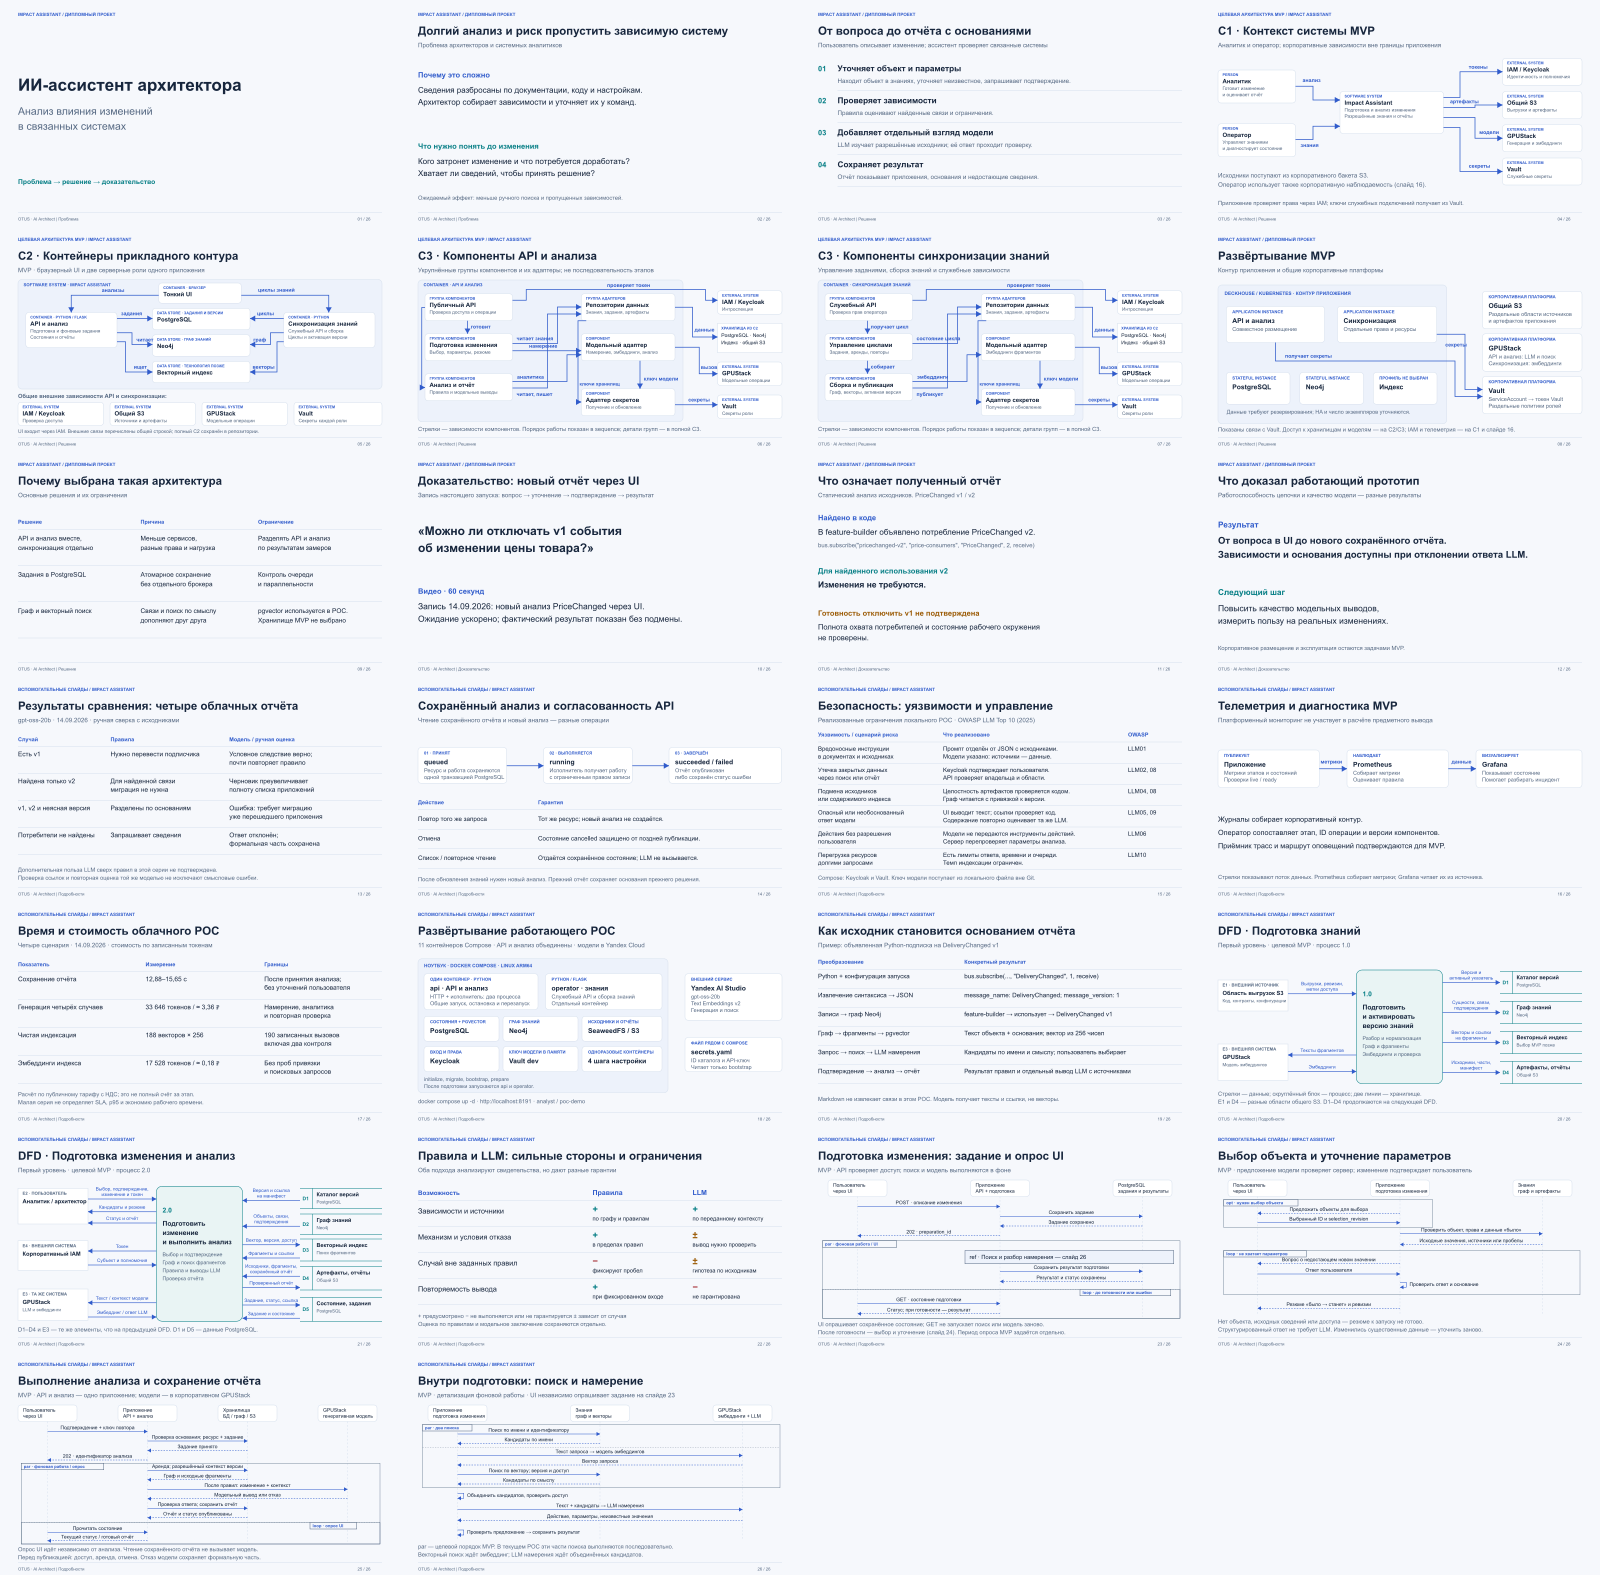
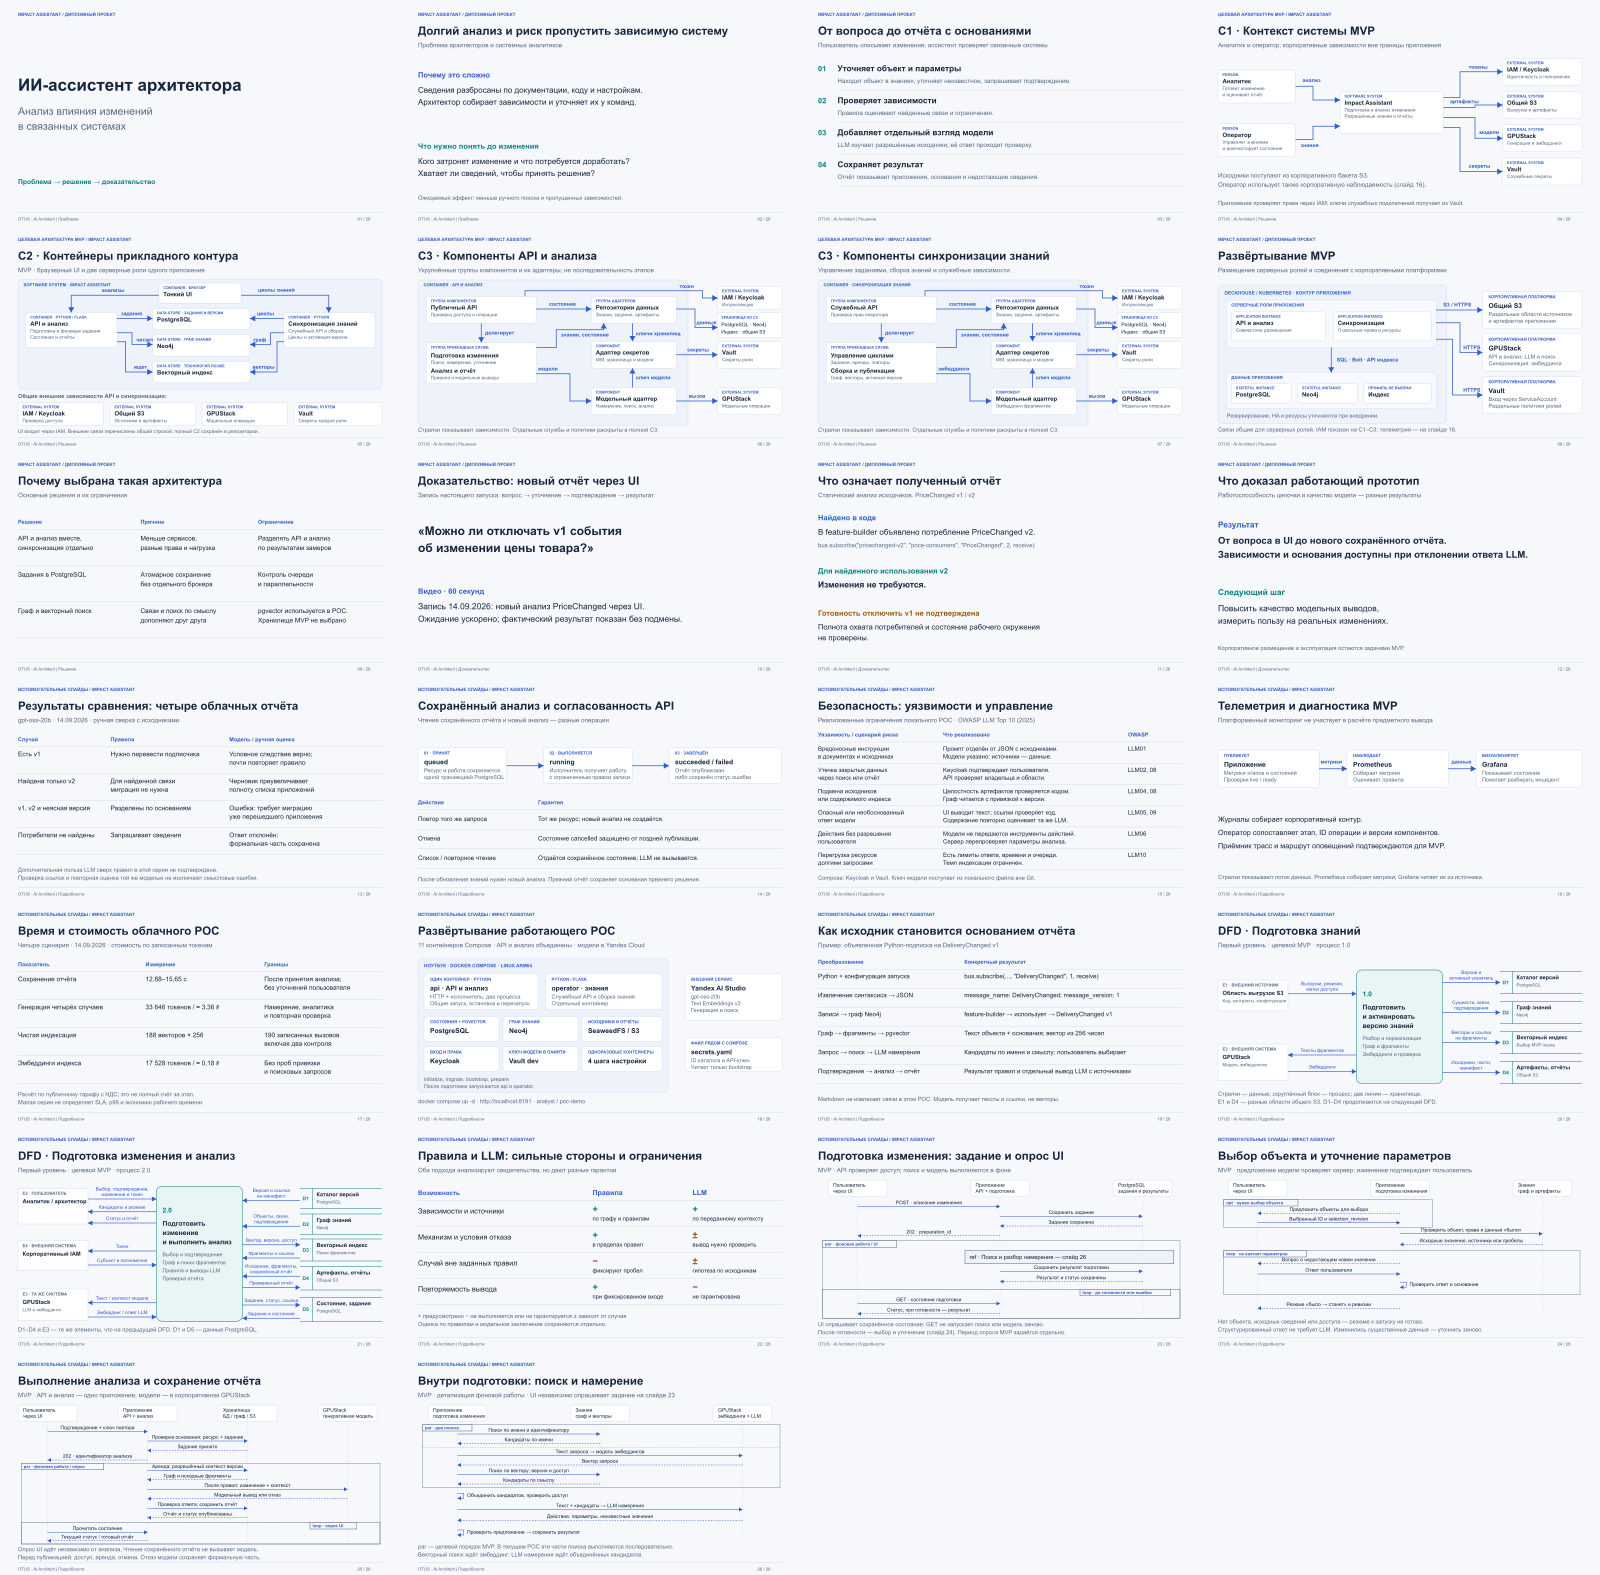
Simplify C3 arrows and show deployment network connections

Changed region(s): [[0.25, 0.1867, 0.875, 0.28], [0.9062, 0.1867, 0.9375, 0.28]]

diff --git a/impact-assistant/index.html b/impact-assistant/index.html
@@ -4,7 +4,7 @@
 <video id="reserve-video" controls playsinline preload="none" poster="media/ui-demo-poster.png" aria-label="Запись UI: генерация нового отчёта, 60 секунд"><source src="media/ui-demo-60s.mp4" type="video/mp4">Откройте видео по ссылке ниже.</video>
 <p id="video-caption">Настоящий запуск через UI · 60 секунд · без звука. Ожидания ускорены и отмечены; паузы между действиями сокращены. <a href="media/ui-demo-60s.mp4" target="_blank" rel="noopener">Открыть файл видео</a></p>
 <p id="video-error" role="status" hidden>Видео не удалось запустить. Используйте кнопку воспроизведения или откройте файл по ссылке.</p>
-</dialog><script>const slides=[{"n":1,"file":"01-title.svg","title":"ИИ-ассистент архитектора","time":10,"video":false,"revision":"b6a439b09990"},{"n":2,"file":"02-problem.svg","title":"Долгий анализ и риск пропустить зависимую систему","time":20,"video":false,"revision":"0c3632530768"},{"n":3,"file":"03-solution.svg","title":"От вопроса до отчёта с основаниями","time":30,"video":false,"revision":"3365abd1b5b9"},{"n":4,"file":"04-c1.svg","title":"C1 · Контекст системы MVP","time":15,"video":false,"revision":"c75c0c699f72"},{"n":5,"file":"05-c2.svg","title":"C2 · Контейнеры прикладного контура","time":25,"video":false,"revision":"5589796c833b"},{"n":6,"file":"06-c3-online.svg","title":"C3 · Компоненты API и анализа","time":25,"video":false,"revision":"7245938d5161"},{"n":7,"file":"07-c3-knowledge.svg","title":"C3 · Компоненты синхронизации знаний","time":25,"video":false,"revision":"d76c63c36406"},{"n":8,"file":"08-deployment.svg","title":"Развёртывание MVP","time":15,"video":false,"revision":"a1246525f4fd"},{"n":9,"file":"09-decisions.svg","title":"Почему выбрана такая архитектура","time":20,"video":false,"revision":"3dc9720cd842"},{"n":10,"file":"10-demo.svg","title":"Доказательство: новый отчёт через UI","time":75,"video":true,"revision":"d7d83068f782"},{"n":11,"file":"11-migration-case.svg","title":"Что означает полученный отчёт","time":20,"video":false,"revision":"5a78c6e58093"},{"n":12,"file":"12-result.svg","title":"Что доказал работающий прототип","time":20,"video":false,"revision":"81158906ef58"},{"n":13,"file":"13-quality.svg","title":"Результаты сравнения: четыре облачных отчёта","time":0,"video":false,"revision":"6a3935732a28"},{"n":14,"file":"14-lifecycle.svg","title":"Сохранённый анализ и согласованность API","time":0,"video":false,"revision":"29d0ead27a39"},{"n":15,"file":"15-security.svg","title":"Безопасность: уязвимости и управление","time":0,"video":false,"revision":"7031c7e28fbe"},{"n":16,"file":"16-observability.svg","title":"Телеметрия и диагностика MVP","time":0,"video":false,"revision":"eb49f1ad5384"},{"n":17,"file":"17-capacity.svg","title":"Время и стоимость облачного POC","time":0,"video":false,"revision":"7c265d8f042d"},{"n":18,"file":"18-local.svg","title":"Развёртывание работающего POC","time":0,"video":false,"revision":"e75503fd0c14"},{"n":19,"file":"19-pipeline.svg","title":"Как исходник становится основанием отчёта","time":0,"video":false,"revision":"08ff4c41251d"},{"n":20,"file":"20-dfd-knowledge.svg","title":"DFD · Подготовка знаний","time":0,"video":false,"revision":"ec3b79f841ce"},{"n":21,"file":"21-dfd-analysis.svg","title":"DFD · Подготовка изменения и анализ","time":0,"video":false,"revision":"bbabd4d109ac"},{"n":22,"file":"22-approaches.svg","title":"Правила и LLM: сильные стороны и ограничения","time":0,"video":false,"revision":"b8dc21528244"},{"n":23,"file":"23-sequence-preparation.svg","title":"Подготовка изменения: задание и опрос UI","time":0,"video":false,"revision":"d516999e6631"},{"n":24,"file":"24-sequence-clarification.svg","title":"Выбор объекта и уточнение параметров","time":0,"video":false,"revision":"053b13f6c17d"},{"n":25,"file":"25-sequence-analysis.svg","title":"Выполнение анализа и сохранение отчёта","time":0,"video":false,"revision":"b907d781988b"},{"n":26,"file":"26-sequence-search.svg","title":"Внутри подготовки: поиск и намерение","time":0,"video":false,"revision":"bae28ee8bbfc"}];const mainRoute=slides.filter(s=>s.time).map(s=>s.n);let n=1,short=false;const byId=id=>document.getElementById(id);function route(){return short?mainRoute:slides.map(s=>s.n)}function show(){if(byId('video-dialog').open)byId('video-dialog').close();const raw=Number.parseInt(location.hash.slice(1),10);n=Math.max(1,Math.min(slides.length,Number.isFinite(raw)?raw:1));const s=slides[n-1];byId('slide').src=s.file+'?v='+s.revision;byId('slide').alt=s.title;byId('play-video').hidden=!s.video;byId('num').textContent=n+' / '+slides.length;byId('toc').classList.remove('open')}function go(d){const r=route();const next=d>0?r.find(v=>v>n):r.slice().reverse().find(v=>v<n);if(next)location.hash=next}byId('prev').onclick=()=>go(-1);byId('next').onclick=()=>go(1);byId('mode').onclick=()=>{short=!short;byId('mode').textContent=short?'Все слайды':'Короткий показ';byId('mode').setAttribute('aria-pressed',String(short));if(short&&!mainRoute.includes(n))location.hash=mainRoute.find(v=>v>=n)||mainRoute[mainRoute.length-1]};byId('contents').onclick=()=>byId('toc').classList.toggle('open');byId('full').onclick=()=>{const op=document.fullscreenElement?document.exitFullscreen?.():document.documentElement.requestFullscreen?.();op?.catch(()=>{})};const video=byId('reserve-video'),videoDialog=byId('video-dialog');
+</dialog><script>const slides=[{"n":1,"file":"01-title.svg","title":"ИИ-ассистент архитектора","time":10,"video":false,"revision":"b6a439b09990"},{"n":2,"file":"02-problem.svg","title":"Долгий анализ и риск пропустить зависимую систему","time":20,"video":false,"revision":"0c3632530768"},{"n":3,"file":"03-solution.svg","title":"От вопроса до отчёта с основаниями","time":30,"video":false,"revision":"3365abd1b5b9"},{"n":4,"file":"04-c1.svg","title":"C1 · Контекст системы MVP","time":15,"video":false,"revision":"c75c0c699f72"},{"n":5,"file":"05-c2.svg","title":"C2 · Контейнеры прикладного контура","time":25,"video":false,"revision":"5589796c833b"},{"n":6,"file":"06-c3-online.svg","title":"C3 · Компоненты API и анализа","time":25,"video":false,"revision":"d396672ee05a"},{"n":7,"file":"07-c3-knowledge.svg","title":"C3 · Компоненты синхронизации знаний","time":25,"video":false,"revision":"733619e90a6d"},{"n":8,"file":"08-deployment.svg","title":"Развёртывание MVP","time":15,"video":false,"revision":"6792a74d84ab"},{"n":9,"file":"09-decisions.svg","title":"Почему выбрана такая архитектура","time":20,"video":false,"revision":"3dc9720cd842"},{"n":10,"file":"10-demo.svg","title":"Доказательство: новый отчёт через UI","time":75,"video":true,"revision":"d7d83068f782"},{"n":11,"file":"11-migration-case.svg","title":"Что означает полученный отчёт","time":20,"video":false,"revision":"5a78c6e58093"},{"n":12,"file":"12-result.svg","title":"Что доказал работающий прототип","time":20,"video":false,"revision":"81158906ef58"},{"n":13,"file":"13-quality.svg","title":"Результаты сравнения: четыре облачных отчёта","time":0,"video":false,"revision":"6a3935732a28"},{"n":14,"file":"14-lifecycle.svg","title":"Сохранённый анализ и согласованность API","time":0,"video":false,"revision":"29d0ead27a39"},{"n":15,"file":"15-security.svg","title":"Безопасность: уязвимости и управление","time":0,"video":false,"revision":"7031c7e28fbe"},{"n":16,"file":"16-observability.svg","title":"Телеметрия и диагностика MVP","time":0,"video":false,"revision":"eb49f1ad5384"},{"n":17,"file":"17-capacity.svg","title":"Время и стоимость облачного POC","time":0,"video":false,"revision":"7c265d8f042d"},{"n":18,"file":"18-local.svg","title":"Развёртывание работающего POC","time":0,"video":false,"revision":"e75503fd0c14"},{"n":19,"file":"19-pipeline.svg","title":"Как исходник становится основанием отчёта","time":0,"video":false,"revision":"08ff4c41251d"},{"n":20,"file":"20-dfd-knowledge.svg","title":"DFD · Подготовка знаний","time":0,"video":false,"revision":"ec3b79f841ce"},{"n":21,"file":"21-dfd-analysis.svg","title":"DFD · Подготовка изменения и анализ","time":0,"video":false,"revision":"bbabd4d109ac"},{"n":22,"file":"22-approaches.svg","title":"Правила и LLM: сильные стороны и ограничения","time":0,"video":false,"revision":"b8dc21528244"},{"n":23,"file":"23-sequence-preparation.svg","title":"Подготовка изменения: задание и опрос UI","time":0,"video":false,"revision":"d516999e6631"},{"n":24,"file":"24-sequence-clarification.svg","title":"Выбор объекта и уточнение параметров","time":0,"video":false,"revision":"053b13f6c17d"},{"n":25,"file":"25-sequence-analysis.svg","title":"Выполнение анализа и сохранение отчёта","time":0,"video":false,"revision":"b907d781988b"},{"n":26,"file":"26-sequence-search.svg","title":"Внутри подготовки: поиск и намерение","time":0,"video":false,"revision":"bae28ee8bbfc"}];const mainRoute=slides.filter(s=>s.time).map(s=>s.n);let n=1,short=false;const byId=id=>document.getElementById(id);function route(){return short?mainRoute:slides.map(s=>s.n)}function show(){if(byId('video-dialog').open)byId('video-dialog').close();const raw=Number.parseInt(location.hash.slice(1),10);n=Math.max(1,Math.min(slides.length,Number.isFinite(raw)?raw:1));const s=slides[n-1];byId('slide').src=s.file+'?v='+s.revision;byId('slide').alt=s.title;byId('play-video').hidden=!s.video;byId('num').textContent=n+' / '+slides.length;byId('toc').classList.remove('open')}function go(d){const r=route();const next=d>0?r.find(v=>v>n):r.slice().reverse().find(v=>v<n);if(next)location.hash=next}byId('prev').onclick=()=>go(-1);byId('next').onclick=()=>go(1);byId('mode').onclick=()=>{short=!short;byId('mode').textContent=short?'Все слайды':'Короткий показ';byId('mode').setAttribute('aria-pressed',String(short));if(short&&!mainRoute.includes(n))location.hash=mainRoute.find(v=>v>=n)||mainRoute[mainRoute.length-1]};byId('contents').onclick=()=>byId('toc').classList.toggle('open');byId('full').onclick=()=>{const op=document.fullscreenElement?document.exitFullscreen?.():document.documentElement.requestFullscreen?.();op?.catch(()=>{})};const video=byId('reserve-video'),videoDialog=byId('video-dialog');
 byId('play-video').onclick=()=>{byId('video-error').hidden=true;video.currentTime=0;videoDialog.showModal();video.play().catch(()=>{byId('video-error').hidden=false})};
 byId('close-video').onclick=()=>videoDialog.close();
 videoDialog.addEventListener('close',()=>video.pause());
